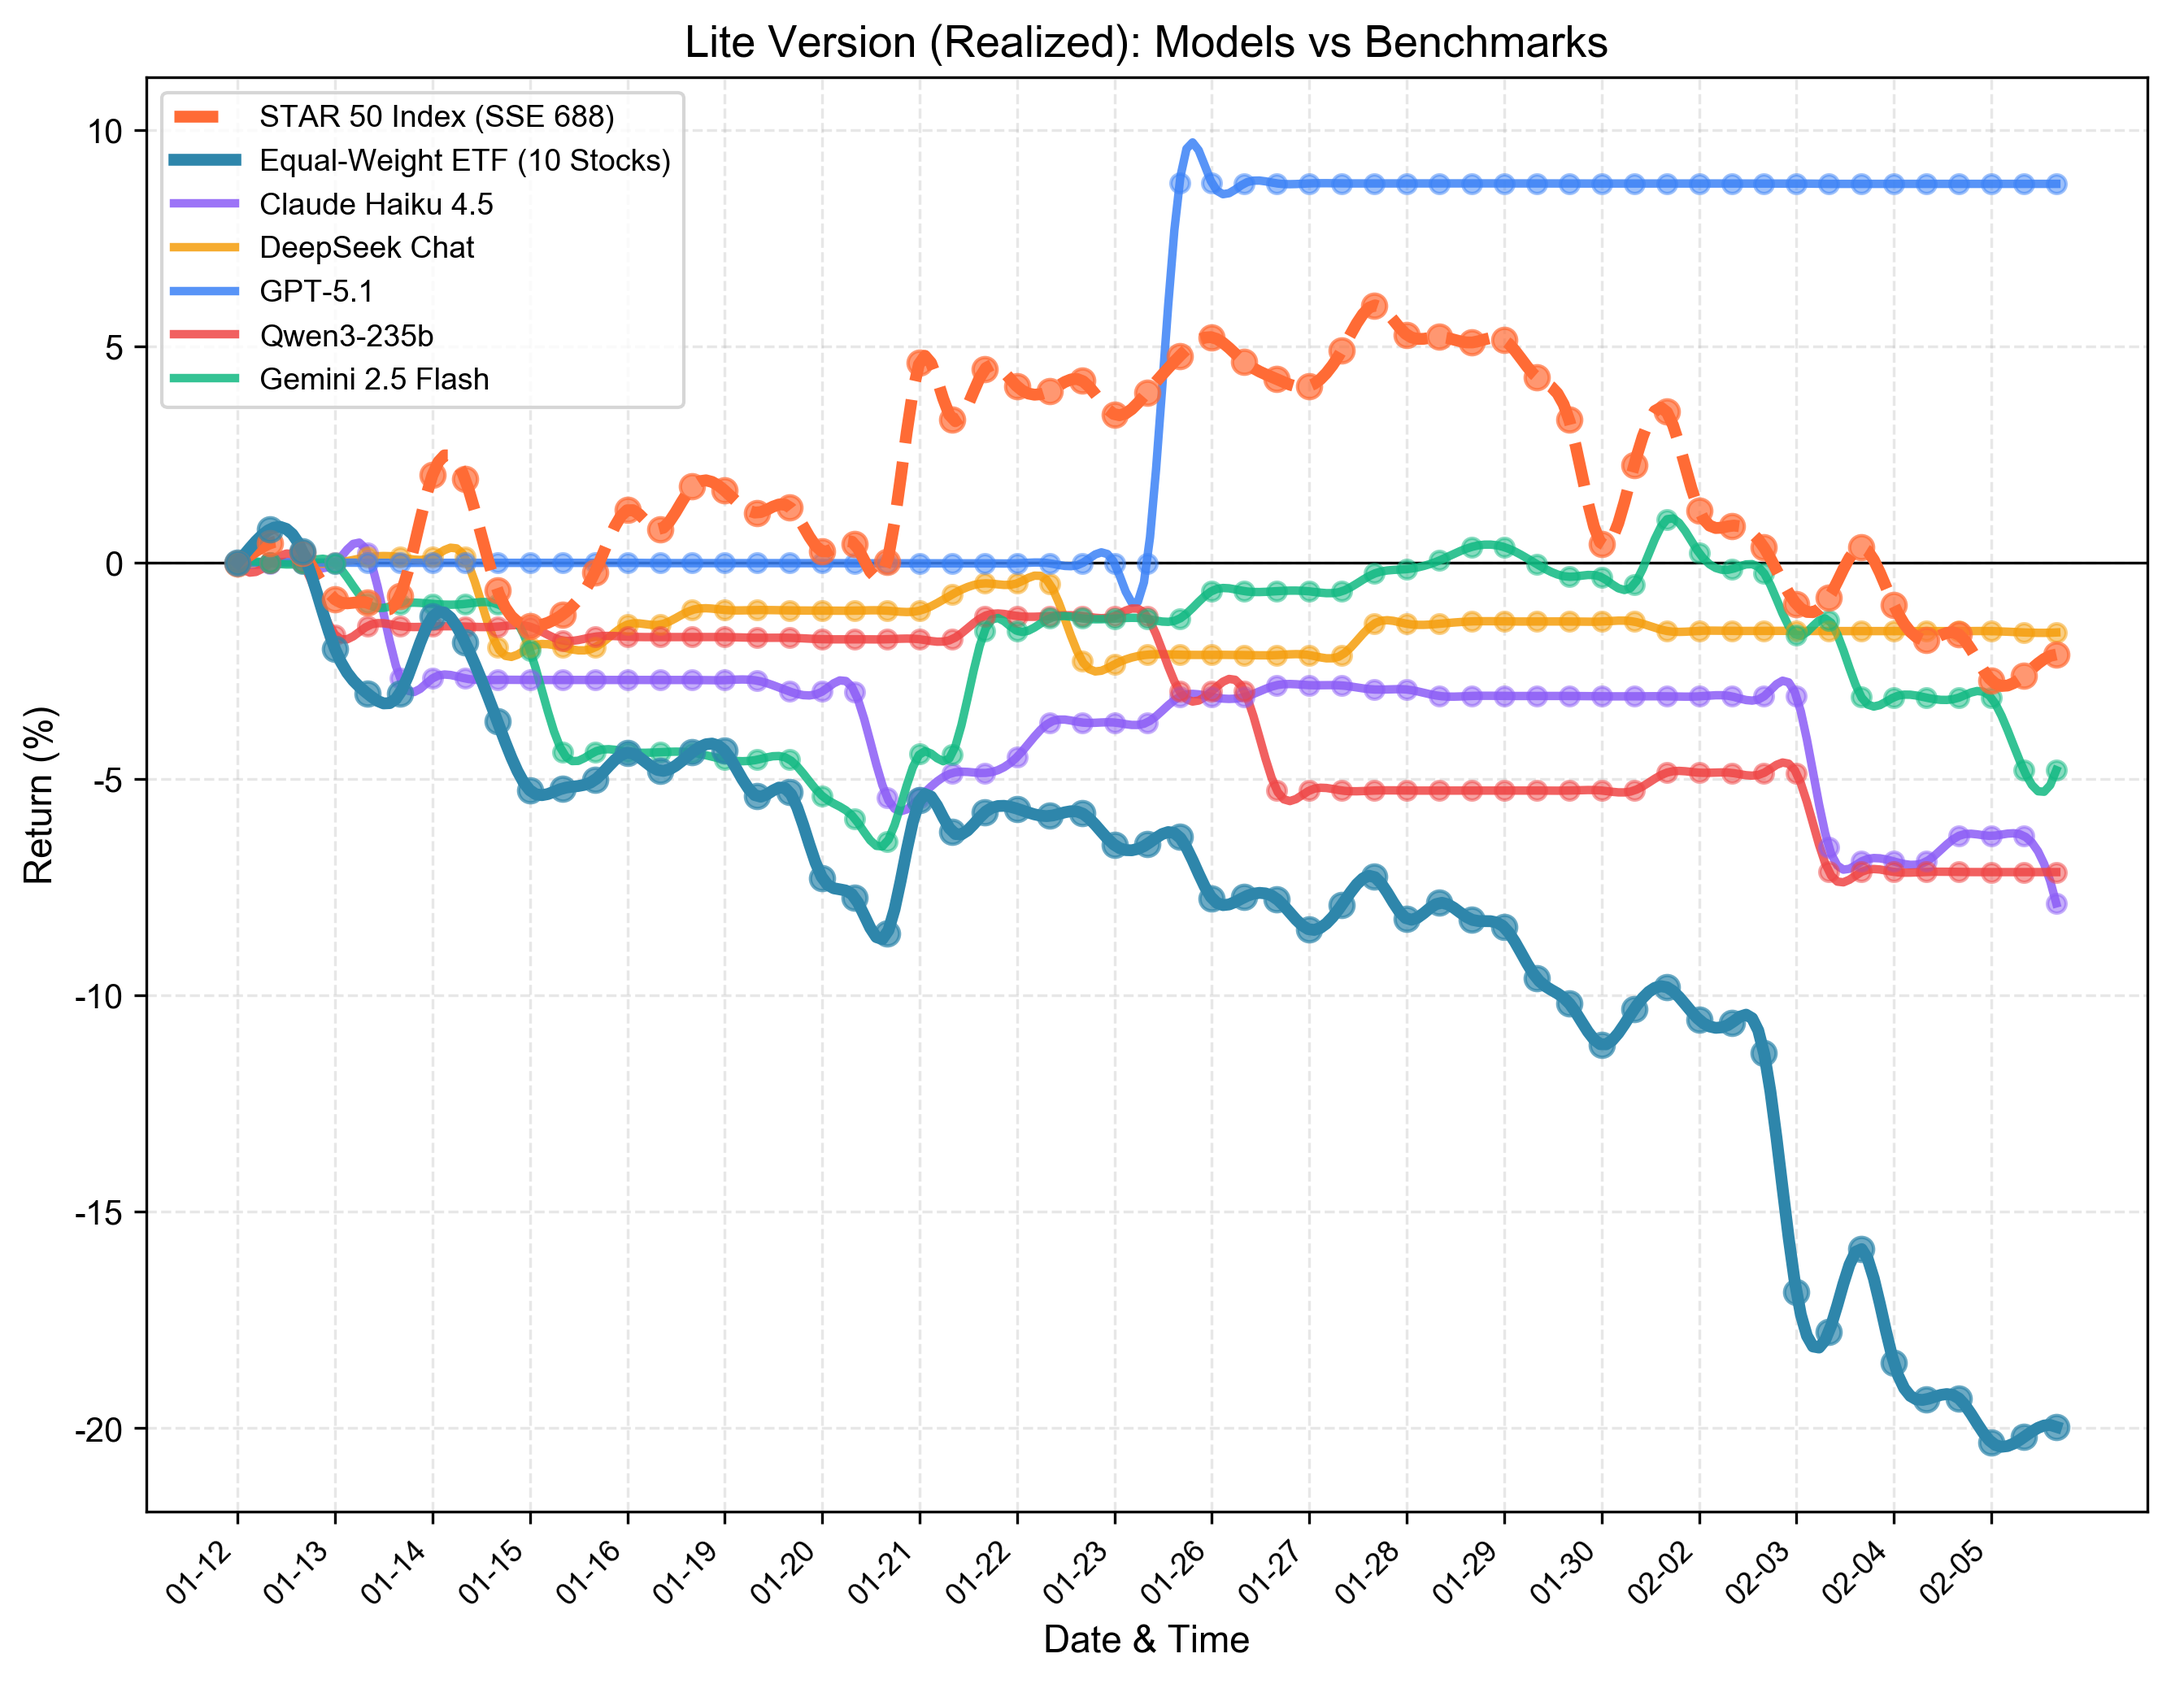
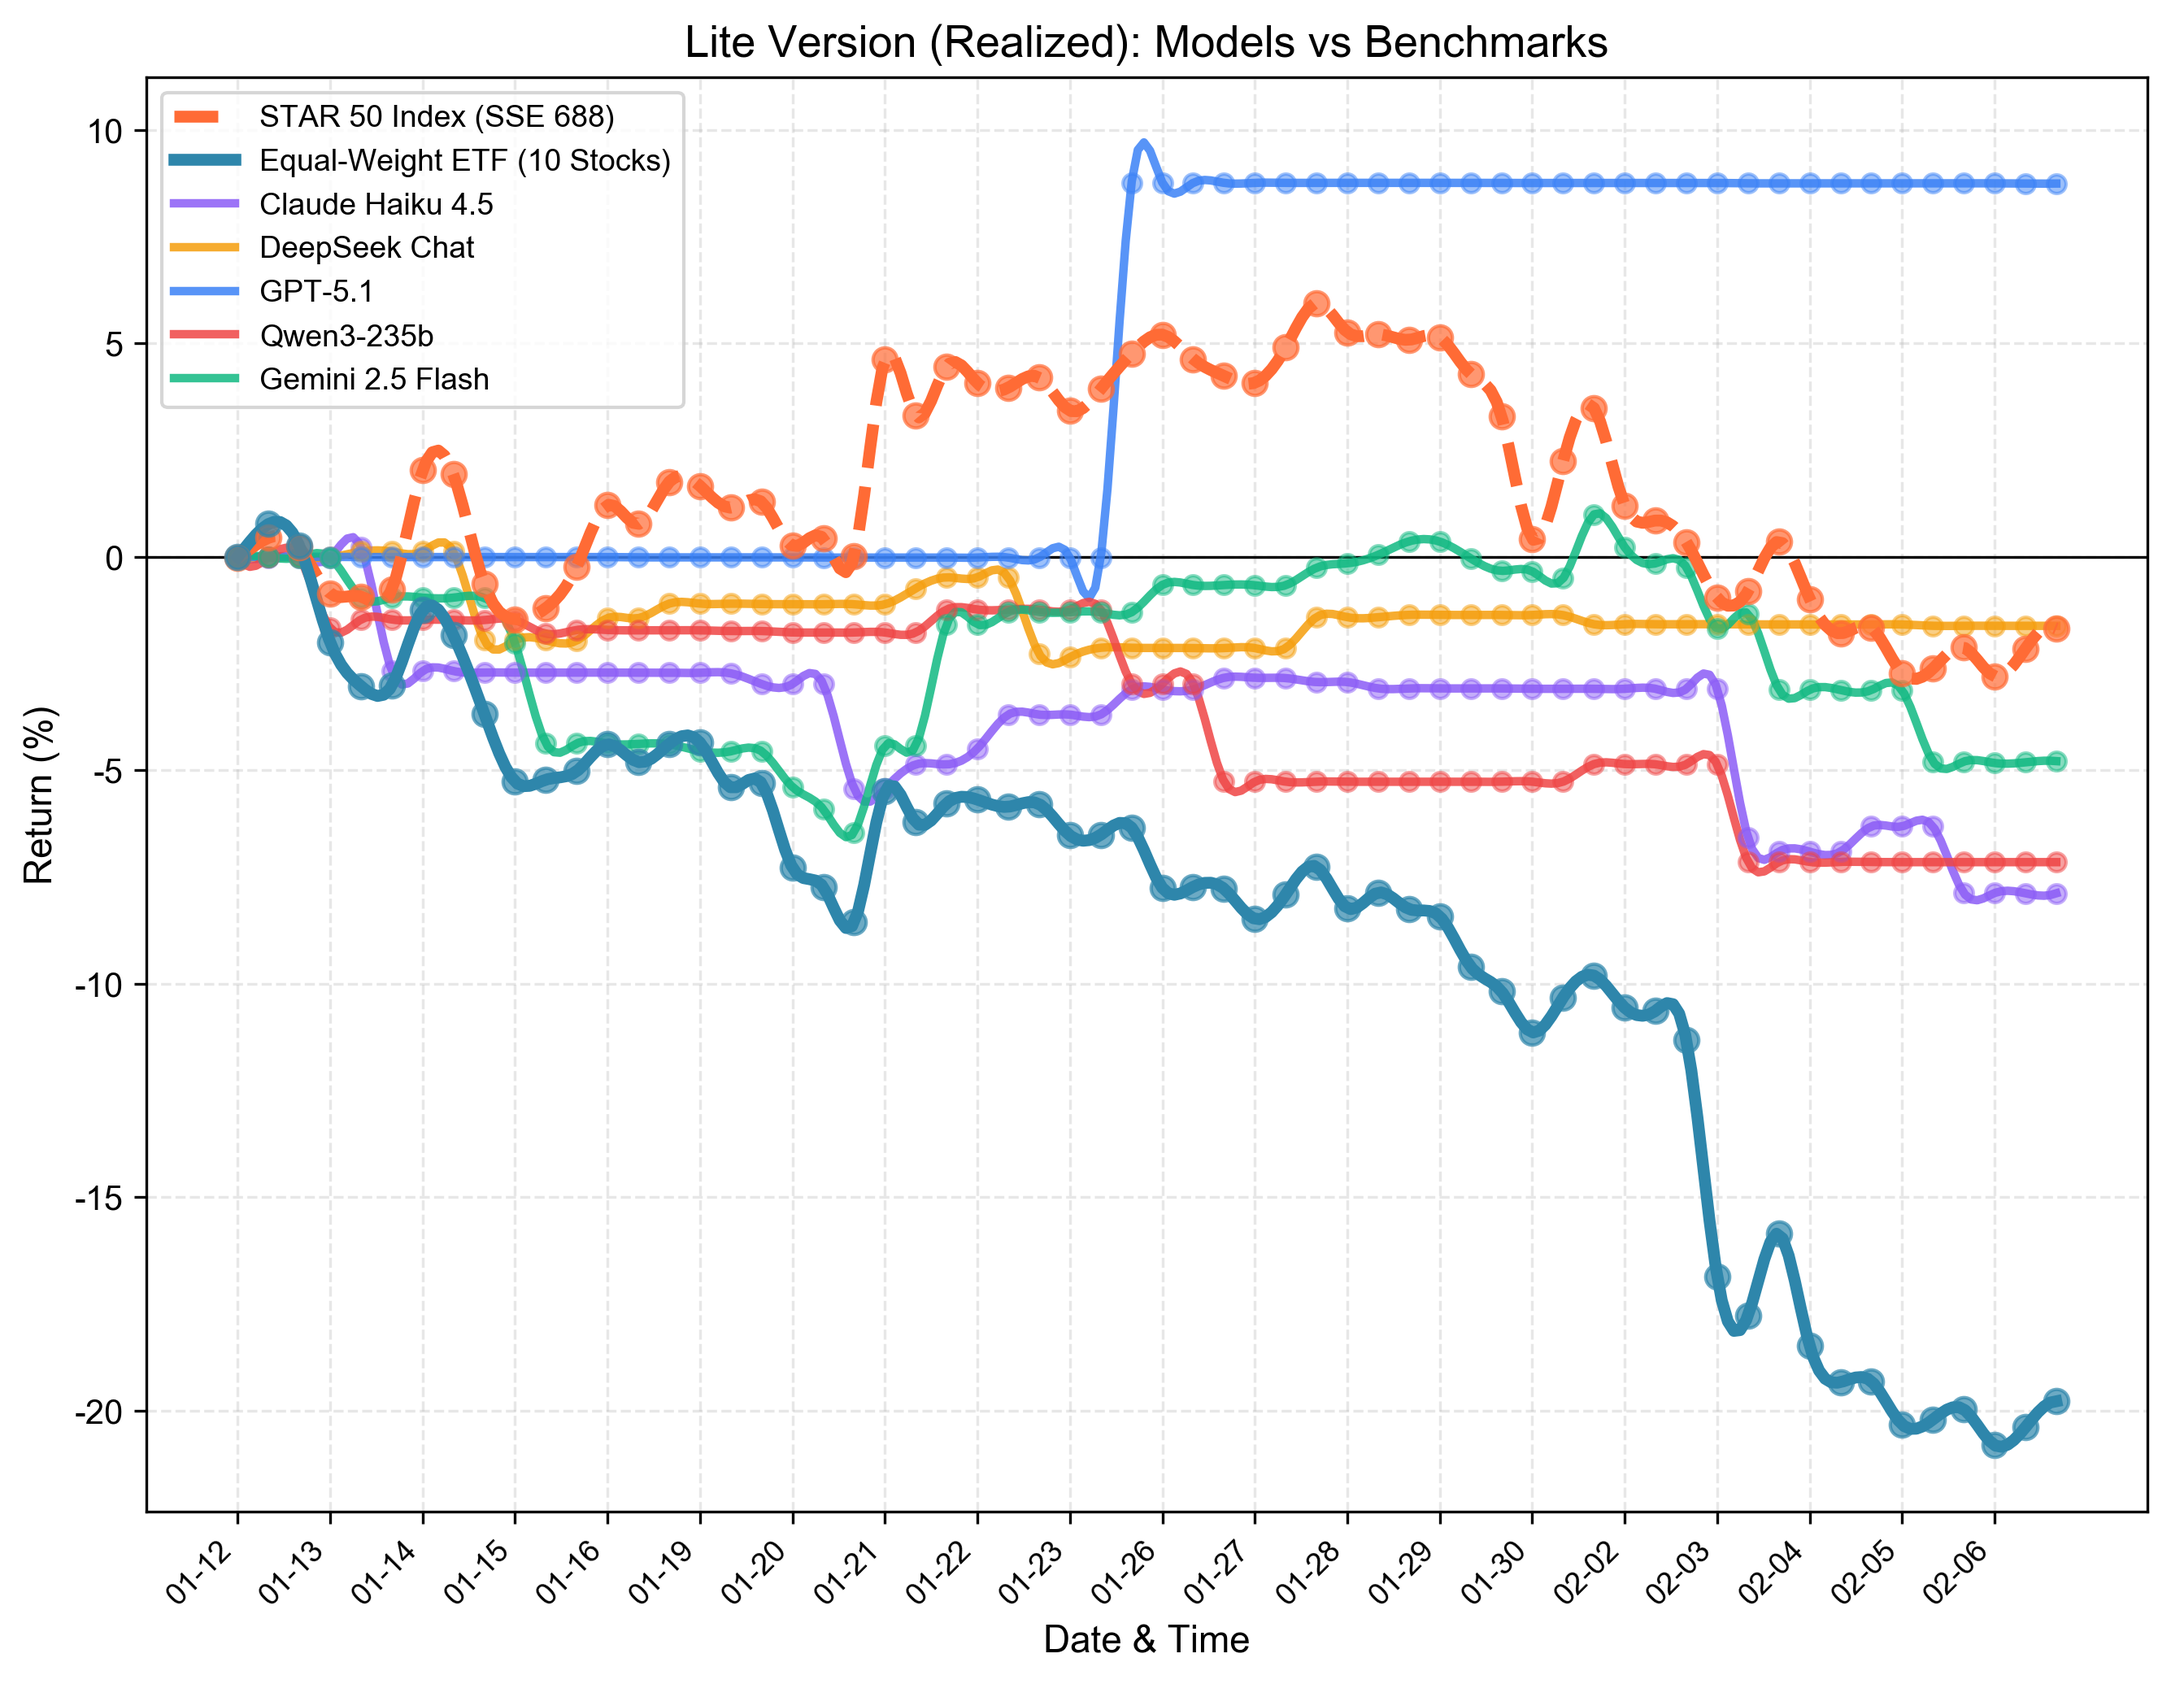
2.6

diff --git a/experiments/visualizations/performance_summary.md b/experiments/visualizations/performance_summary.md
@@ -2,8 +2,8 @@
 
 | Model | Latest Return | Max Return | Min Return | Volatility |
 |-------|---------------|------------|------------|------------|
-| Claude Haiku 4.5 | -7.87% | 0.23% | -7.87% | 1.75% |
-| DeepSeek Chat | -1.61% | 0.12% | -2.35% | 0.69% |
-| Gemini 2.5 Flash | -4.80% | 0.99% | -6.45% | 1.94% |
-| GPT-5.1 | 8.75% | 8.76% | -0.02% | 4.38% |
-| Qwen3-235b | -7.15% | -0.01% | -7.15% | 2.25% |
+| Claude Haiku 4.5 | -7.88% | 0.23% | -7.88% | 1.96% |
+| DeepSeek Chat | -1.62% | 0.12% | -2.35% | 0.68% |
+| Gemini 2.5 Flash | -4.79% | 0.99% | -6.45% | 2.00% |
+| GPT-5.1 | 8.74% | 8.76% | -0.02% | 4.38% |
+| Qwen3-235b | -7.15% | -0.01% | -7.15% | 2.34% |

diff --git a/README.md b/README.md
@@ -22,9 +22,9 @@
 
 ## 📊 Performance Comparison Results
 
-**Updated: February 5, 2026**
+**Updated: February 6, 2026**
 
-This section showcases comprehensive performance comparisons across Lite and Pro model versions, including benchmark analyses and portfolio dynamics during the trading period (January 12-February 5, 2026).
+This section showcases comprehensive performance comparisons across Lite and Pro model versions, including benchmark analyses and portfolio dynamics during the trading period (January 12-February 6, 2026).
 
 ### Dual Model Version Strategy
 
